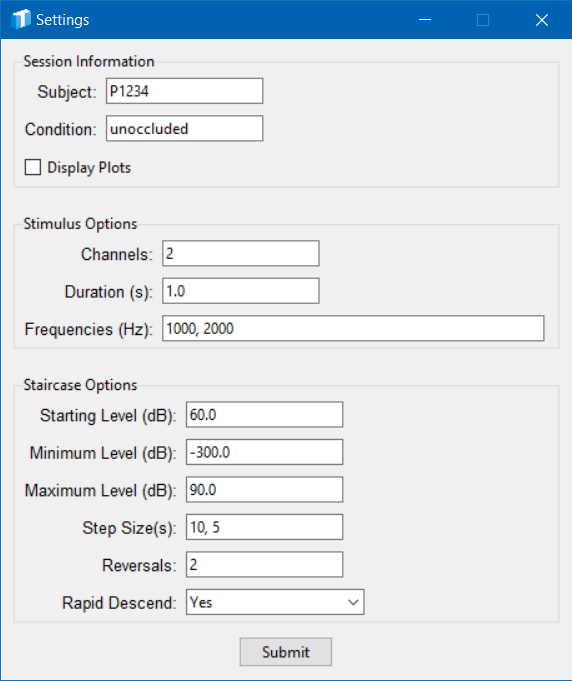
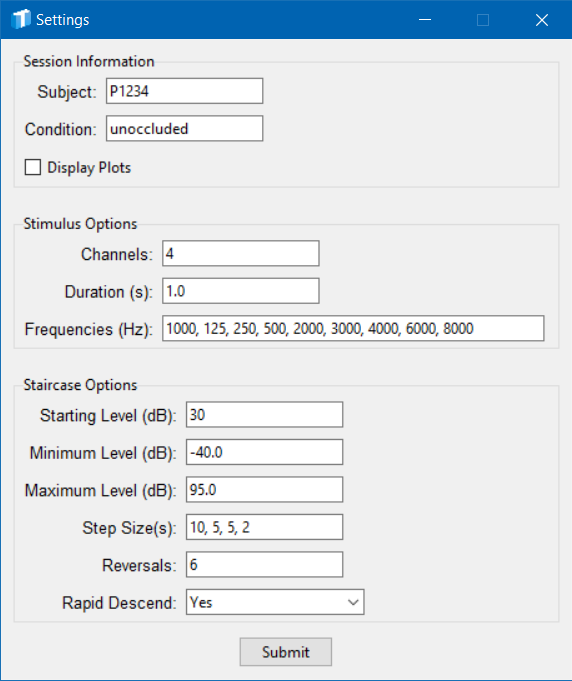
Version 2.0.1. Added unit tests to test suite. Validated several Settings window entry boxes. Updated README.

diff --git a/app_assets/README/README.html b/app_assets/README/README.html
@@ -12,9 +12,9 @@
 
     Written by: <b>Travis M. Moore</b>
     <br>
-    Latest version: <b>Version 2.0.0</b><br>
+    Latest version: <b>Version 2.0.1</b><br>
     Originally created: <b>January 04, 2024</b><br>
-    Last edited: <b>February 29, 2024</b><br><br>
+    Last edited: <b>March 5, 2024</b><br><br>
 </div>
 
 <hr />
@@ -60,8 +60,18 @@
 <br>
 <br></p>
 <hr />
+<h1>Valid Test Frequencies</h1>
+<p>Because estimation of audiometric thresholds relies on RETSPLs (reference equivalent threshold sound pressure levels), only a subset of frequencies can be reliably tested with PEAT. Valid frequencies are mostly 1/3 octave values, with a few audiometric additions (e.g., 6000 Hz). </p>
+<p>Full list of test frequencies allowable with PEAT:<br>
+<code>20, 25, 31.5, 40, 50, 63, 80, 100, 125, 160,
+200, 250, 315, 400, 500, 630, 750, 800, 1000, 1250,
+1500, 1600, 2000, 2500, 3000, 4000, 6000, 6300, 8000, 9000,
+10000, 1200, 14000, 16000</code>
+<br>
+<br></p>
+<hr />
 <h1>Main Screen</h1>
-<p>The image below shows the main screen of the P.E.A.T. application. </p>
+<p>The image below shows the main screen of the P.E.A.T. application.  </p>
 <p><img src="main_window.png" alt="Main Window Image" width="300"/></p>
 <h2>Intervals</h2>
 <p>The top half of the screen (i.e., above the horizontal grey line) is used to display intervals during the task. When an interval is active, the box will turn blue. Every trial will follow the pattern:</p>
@@ -83,6 +93,7 @@
 <h1>File Menu</h1>
 <h2>File&gt;Settings</h2>
 <p>The image below shows the options available by navigating to <code>File&gt;Settings</code>.</p>
+<p>NOTE: The values entered in the image below are good default values for testing SoundGear devices.</p>
 <p><img src="settings_window.png" alt="Settings Window Image" width="400"/></p>
 <h3><u>Session Information</u></h3>
 <p><b>Subject:</b> A unique subject identifier. Can be alpha, numeric, or both.</p>
@@ -119,7 +130,7 @@
 <p><b>Calibration Stimulus.</b> You can choose to use the built-in white noise, or provide a custom file for the calibration signal (top group in image). If a multi-channel custom calibration file is provided, ensure the correct number of channels have been assigned in <code>Tools&gt;Audio Settings</code>. </p>
 <p><b>Playback Controls.</b> Use the <code>Level (dB)</code> entry box to adjust the digital playback level in dB (middle group in image). Adjust the level until the SLM reads above the noise floor of the room. The <code>Play</code> and <code>Stop</code> buttons allow you to start and stop the audio playback.</p>
 <p><b>Measured Level.</b> Use an SLM to measure the level of the calibration signal and enter the value into the <code>SLM Reading (dB)</code> entry box (bottom group in image). Click submit, and the application will calculate an offset so that you can specify presentation levels in dB (whichever type of dB you set the SLM to when measuring). </p>
-<p>NOTE: For multi-channel files, the SLM offset is applied to each channel individually. </p>
+<p>NOTE: For multi-channel files, the same SLM offset is applied to each channel individually. <b>Currently there is not support for multiple SLM offsets.</b></p>
 <p>NOTE: The <code>Submit</code> button is disabled until you click the <code>Play</code> button.
 <br>
 <br></p>
@@ -129,7 +140,7 @@
 <p>The data window (below) provides an easy-to-use interface for calculating estimated thresholds from raw data files from this application. Batching capabilities are built in, and only require that all raw data files are located in the same directory.</p>
 <p><img src="data_window.png" alt="Data Window" width="500"/></p>
 <h2>Options</h2>
-<p><b>Number of Reversals for Averaging:</b> The number of reversals to average over (starting at the last trial and moving backwards) for calculating a threshold. A minimum of three reversals is suggested. DO NOT INCLUDE THE INITIAL REVERSAL IN THE AVERAGE. </p>
+<p><b>Number of Reversals for Averaging:</b> The number of reversals to average over (starting at the last trial and moving backwards) for calculating a threshold. A minimum of three reversals is suggested. DO NOT INCLUDE THE INITIAL REVERSAL IN THE AVERAGE. <b>The user is responsible for entering a valid number based on the parameters used for estimating thresholds. </b></p>
 <p>NOTE: The maximum permissible value depends on the number of reversals that were originally obtained during the task (see File&gt;Settings). </p>
 <p><b>Threshold Data Directory:</b> Click the <code>Browse</code> button to open a file explorer. Simply navigate to the directory where the raw data are stored. </p>
 <p><b>Submit:</b> Upon clicking the <code>Submit</code> button, thresholds will be calculated based on the factors of subject, condition, and test frequency. If finer granularity is desired, a custom analysis script must be used. The thresholds will be written to a CSV file named "thresholds.csv" that will appear in the directory from which the application itself is being run. 

diff --git a/app_assets/README/CHANGELOG.html b/app_assets/README/CHANGELOG.html
@@ -1,15 +1,27 @@
 <h1 style="text-align: center;">Change Log: P.E.A.T.</h1>
 <h2 style="text-align: center;">(P.sychophysical E.stimation of A.uditory T.hresholds)</h2>
 <hr />
+<h2>Version 2.0.1</h2>
+<p>Date: March 5, 2024</p>
+<h3>Patches</h3>
+<ol>
+<li>Added several unit tests to test suite.</li>
+<li>Added validation for several fields in the File&gt;Settings window.</li>
+<li>Updated README file with list of valid test frequencies.</li>
+</ol>
 <h2>Version 2.0.0</h2>
 <p>Date: February 29, 2024</p>
-<h3>Features</h3>
+<h3>Major Features</h3>
 <ol>
 <li>Added RETSPLs to levels to achieve perceptually-balanced presentations across frequencies.</li>
 <li>Calculated appropriate "random" starting phases to avoid constructive/destructive interference as much as possible. </li>
 <li>Fixed random seed when choosing permissible starting phase values to ensure consistency in test results across trials, frequencies, and sessions. </li>
-<li>Added new key binding/unbinding logic to avoid multiple responses during a single trial.</li>
 <li>Moved stimulus generation to the start of each run, avoiding re-synthesizing on each trial to improve processing time. </li>
+</ol>
+<h3>Minor Features</h3>
+<ol>
+<li>Added new key binding/unbinding logic to avoid multiple responses during a single trial.</li>
+<li>Levels are now rounded to two decimal places so Excel doesn't give conversion warning.</li>
 </ol>
 <h3>Patches</h3>
 <ol>

diff --git a/views/sessionview.py b/views/sessionview.py
@@ -250,6 +250,61 @@ class SessionDialog(tk.Toplevel):
         self.deiconify()
 
 
+    def _check_channels(self):
+        """ Ensure the number of channels is less than the number of 
+            non-overlapping phi values (see stimulusmodel>
+            _get_random_phis).
+        """
+        # Get value from entry box
+        chans = self.sessionpars['num_stim_chans'].get()
+
+        # Looks like the tk.IntVar forces to an integer?
+        # This doesn't get called, even with a float value.
+        # Dangerous because there is no warning. It seems like
+        # the previous value is used?
+        if not isinstance(chans, int):
+            return False
+        
+        if chans > 9:
+            return False
+        
+        return True
+
+
+    def _check_test_freqs(self):
+        """ Ensure only valid test frequencies have been entered. """
+        # List of valid frequencies
+        valid_freqs = [20, 25, 31.5, 40, 50, 63, 80, 100, 125, 160, 
+                        200, 250, 315, 400, 500, 630, 750, 800, 1000, 
+                        1250, 1500, 1600, 2000, 2500, 3000, 4000, 
+                        6000, 6300, 8000, 9000, 10000, 11200, 14000, 
+                        16000]
+        
+        # Get raw frequencies from entry box
+        test_freqs = self.sessionpars['test_freqs'].get()
+
+        # Attempt to convert to integers
+        try:
+            test_freqs = [int(val) for val in test_freqs.split(', ')]
+        except ValueError:
+            return False
+        
+        # Test for invalid frequencies
+        if not set(test_freqs).issubset(valid_freqs):
+            return False
+        return True
+    
+
+    def _check_step_sizes(self):
+        """ Ensure step sizes are integers. """
+        steps = self.sessionpars['step_sizes'].get()
+        try:
+            steps = [int(val) for val in steps.split(', ')]
+        except ValueError:
+            return False
+        return True
+
+
     def _check_reversals(self):
         """ Ensure there are enough reversals for step sizes. """
         revs = self.sessionpars['num_reversals'].get() 
@@ -276,23 +331,53 @@ class SessionDialog(tk.Toplevel):
         elif self.sessionpars['rapid_descend'].get() == "No":
             self.sessionpars['rapid_descend_bool'].set(False)
 
+        # Make sure the number of channels is supported by
+        #   the number of non-overlapping phis.
+        if not self._check_channels():
+            messagebox.showerror(
+                title="Invalid Channels",
+                message="Invalid number of channels!",
+                detail="The maximum number of channels is nine."\
+                    "\nChannels must be integers."
+            )
+            return            
+
+        # Check that frequencies are allowable (have RETSPLs)
+        if not self._check_test_freqs():
+            messagebox.showerror(
+                title="Invalid Frequency",
+                message="Invalid test frequency found!",
+                detail="See Help>README for a list of valid test frequencies."
+            )
+            return  
+        
         # Make sure the number of reversals at least matches
         #   the number of steps
         if not self._check_reversals():
             messagebox.showerror(
                 title="Not Enough Reversals",
                 message="The number of reversals must at least equal the " + 
-                    "number of steps."
+                    "number of steps!"
             )
             return
         
+        # Make sure max_level > min_level
         if not self._check_levels():
             messagebox.showerror(
                 title="Invalid Levels",
-                message="The maximum level must exceed the minimum level."
+                message="The maximum level must exceed the minimum level!"
             )
             return
 
+        # Make sure step sizes are integers
+        if not self._check_step_sizes():
+            messagebox.showerror(
+                title="Invalid Step Size",
+                message="Step sizes must be integers!"
+            )
+            return
+
+        # Send save event to controller
         print("\nviews_sessiondialog: Sending save event...")
         self.parent.event_generate('<<SessionSubmit>>')
         self.destroy()

diff --git a/test/test_stimulusmodel.py b/test/test_stimulusmodel.py
@@ -104,7 +104,18 @@ def test_assign_stimulus_interval(monkeypatch, stim_model):
     assert stim_model.assign_stimulus_interval([1,2]) == 1
 
 
-def test_calc_presentation_lvl(monkeypatch, stim_model):
+def test_calc_presentation_lvl_invalid_freq(monkeypatch, stim_model):
+    # Mock function to replace general.calc_RMS_based_on_sources
+    def mock_level(desired_SPL, num_sources):
+        return 45.4568165
+    # Apply monkeypatch
+    monkeypatch.setattr(general, "calc_RMS_based_on_sources", mock_level)
+    # Act
+    with pytest.raises(KeyError) as exc_info:
+        level = stim_model.calc_presentation_lvl(stair_lvl=30, freq=1100)
+
+
+def test_calc_presentation_lvl_valid_freq(monkeypatch, stim_model):
     # Mock function to replace general.calc_RMS_based_on_sources
     def mock_level(desired_SPL, num_sources):
         return 45.4568165

diff --git a/controller.py b/controller.py
@@ -68,8 +68,8 @@ class Application(tk.Tk):
         # Constants #
         #############
         self.NAME = 'P.E.A.T.'
-        self.VERSION = '2.0.0'
-        self.EDITED = 'February 29, 2024'
+        self.VERSION = '2.0.1'
+        self.EDITED = 'March 5, 2024'
 
         # Create menu settings dictionary
         self._app_info = {

diff --git a/app_assets/README/README.md b/app_assets/README/README.md
@@ -13,9 +13,9 @@
 
     Written by: <b>Travis M. Moore</b>
     <br>
-    Latest version: <b>Version 2.0.0</b><br>
+    Latest version: <b>Version 2.0.1</b><br>
     Originally created: <b>January 04, 2024</b><br>
-    Last edited: <b>February 29, 2024</b><br><br>
+    Last edited: <b>March 5, 2024</b><br><br>
 </div>
 
 ---
@@ -63,8 +63,23 @@ You will see a message appear after each threshold is completed to allow you tim
 
 ---
 
+# Valid Test Frequencies
+Because estimation of audiometric thresholds relies on RETSPLs (reference equivalent threshold sound pressure levels), only a subset of frequencies can be reliably tested with PEAT. Valid frequencies are mostly 1/3 octave values, with a few audiometric additions (e.g., 6000 Hz). 
+
+Full list of test frequencies allowable with PEAT:<br>
+```
+20, 25, 31.5, 40, 50, 63, 80, 100, 125, 160,
+200, 250, 315, 400, 500, 630, 750, 800, 1000, 1250,
+1500, 1600, 2000, 2500, 3000, 4000, 6000, 6300, 8000, 9000,
+10000, 1200, 14000, 16000
+```
+<br>
+<br>
+
+---
+
 # Main Screen
-The image below shows the main screen of the P.E.A.T. application. 
+The image below shows the main screen of the P.E.A.T. application.  
 
 <img src="main_window.png" alt="Main Window Image" width="300"/>
 
@@ -95,6 +110,8 @@ The bottom half of the screen (i.e., below the horizontal grey line) is used to 
 
 ## File>Settings
 The image below shows the options available by navigating to ```File>Settings```.
+
+NOTE: The values entered in the image below are good default values for testing SoundGear devices.
 
 <img src="settings_window.png" alt="Settings Window Image" width="400"/>
 
@@ -160,7 +177,7 @@ NOTE: Calibration files are imported without any scaling applied. In essence, "d
 
 <b>Measured Level.</b> Use an SLM to measure the level of the calibration signal and enter the value into the ```SLM Reading (dB)``` entry box (bottom group in image). Click submit, and the application will calculate an offset so that you can specify presentation levels in dB (whichever type of dB you set the SLM to when measuring). 
 
-NOTE: For multi-channel files, the SLM offset is applied to each channel individually. 
+NOTE: For multi-channel files, the same SLM offset is applied to each channel individually. <b>Currently there is not support for multiple SLM offsets.</b>
 
 NOTE: The ```Submit``` button is disabled until you click the ```Play``` button.
 <br>
@@ -176,7 +193,7 @@ The data window (below) provides an easy-to-use interface for calculating estima
 <img src="data_window.png" alt="Data Window" width="500"/>
 
 ## Options
-<b>Number of Reversals for Averaging:</b> The number of reversals to average over (starting at the last trial and moving backwards) for calculating a threshold. A minimum of three reversals is suggested. DO NOT INCLUDE THE INITIAL REVERSAL IN THE AVERAGE. 
+<b>Number of Reversals for Averaging:</b> The number of reversals to average over (starting at the last trial and moving backwards) for calculating a threshold. A minimum of three reversals is suggested. DO NOT INCLUDE THE INITIAL REVERSAL IN THE AVERAGE. <b>The user is responsible for entering a valid number based on the parameters used for estimating thresholds. </b>
 
 NOTE: The maximum permissible value depends on the number of reversals that were originally obtained during the task (see File>Settings). 
 

diff --git a/app_assets/README/CHANGELOG.md b/app_assets/README/CHANGELOG.md
@@ -2,6 +2,15 @@
 <h2 style="text-align: center;">(P.sychophysical E.stimation of A.uditory T.hresholds)</h2>
 ---
 
+## Version 2.0.1
+
+Date: March 5, 2024
+
+### Patches
+1. Added several unit tests to test suite.
+2. Added validation for several fields in the File>Settings window.
+3. Updated README file with list of valid test frequencies.
+
 ## Version 2.0.0
 
 Date: February 29, 2024
